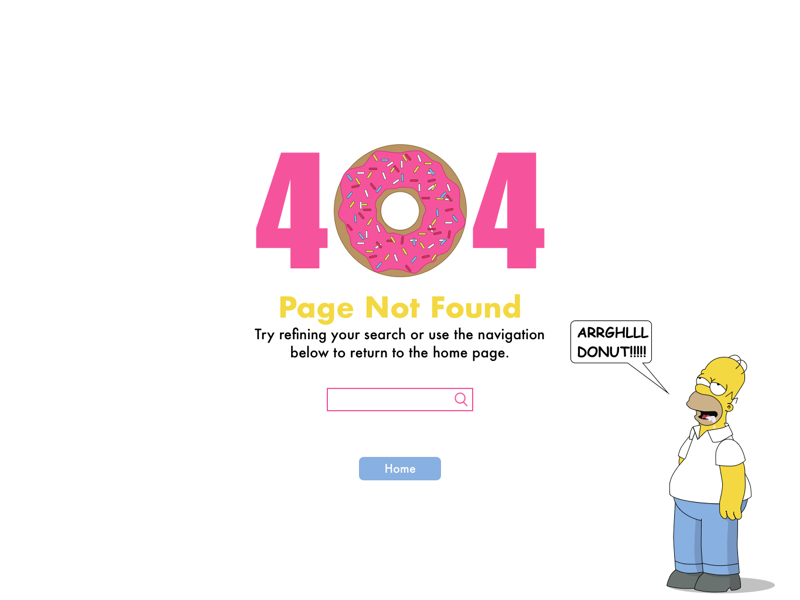
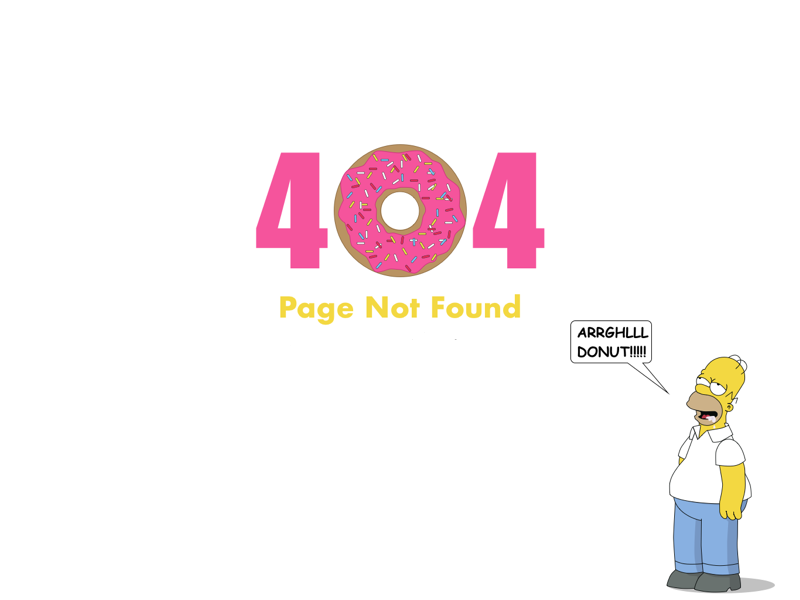
error 404

Changed region(s): [[0.3125, 0.54, 0.6875, 0.6], [0.4062, 0.63, 0.5938, 0.69], [0.4375, 0.75, 0.5625, 0.81]]

diff --git a/pages/error404.html b/pages/error404.html
@@ -1,0 +1,13 @@
+<!DOCTYPE html>
+<html lang="en">
+<head>
+    <meta charset="UTF-8">
+    <meta http-equiv="X-UA-Compatible" content="IE=edge">
+    <meta name="viewport" content="width=device-width, initial-scale=1.0">
+    <title>Document</title>
+</head>
+<body>
+    <img src="/assets/img/error 404 homer.png" alt="404">
+    
+</body>
+</html>
